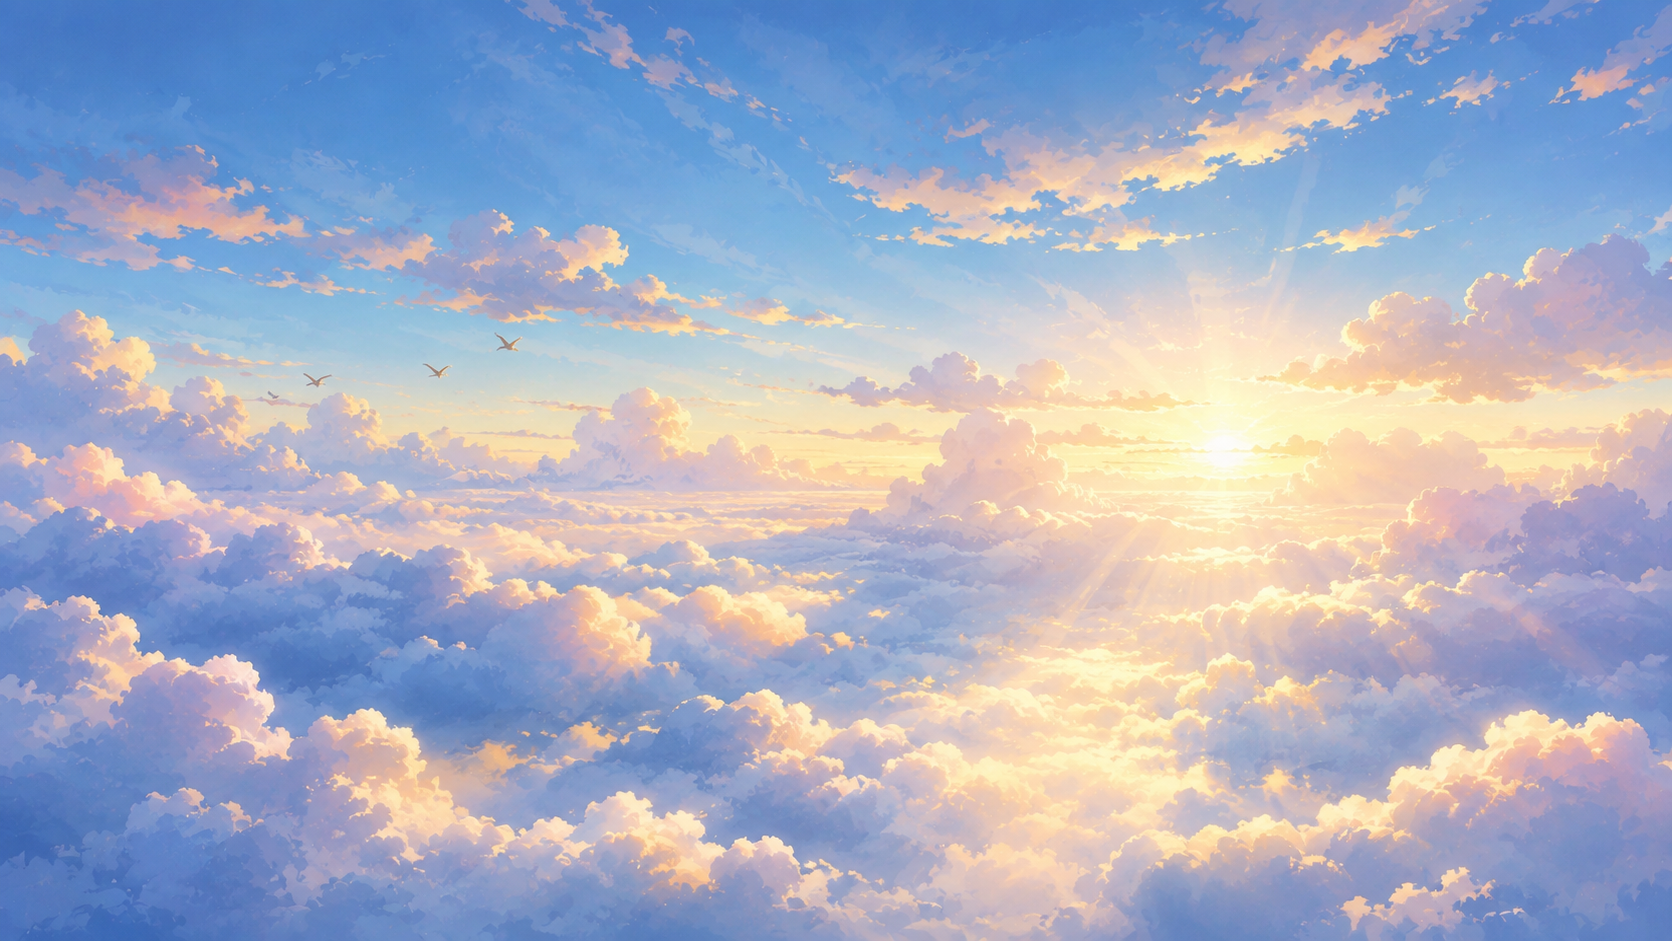
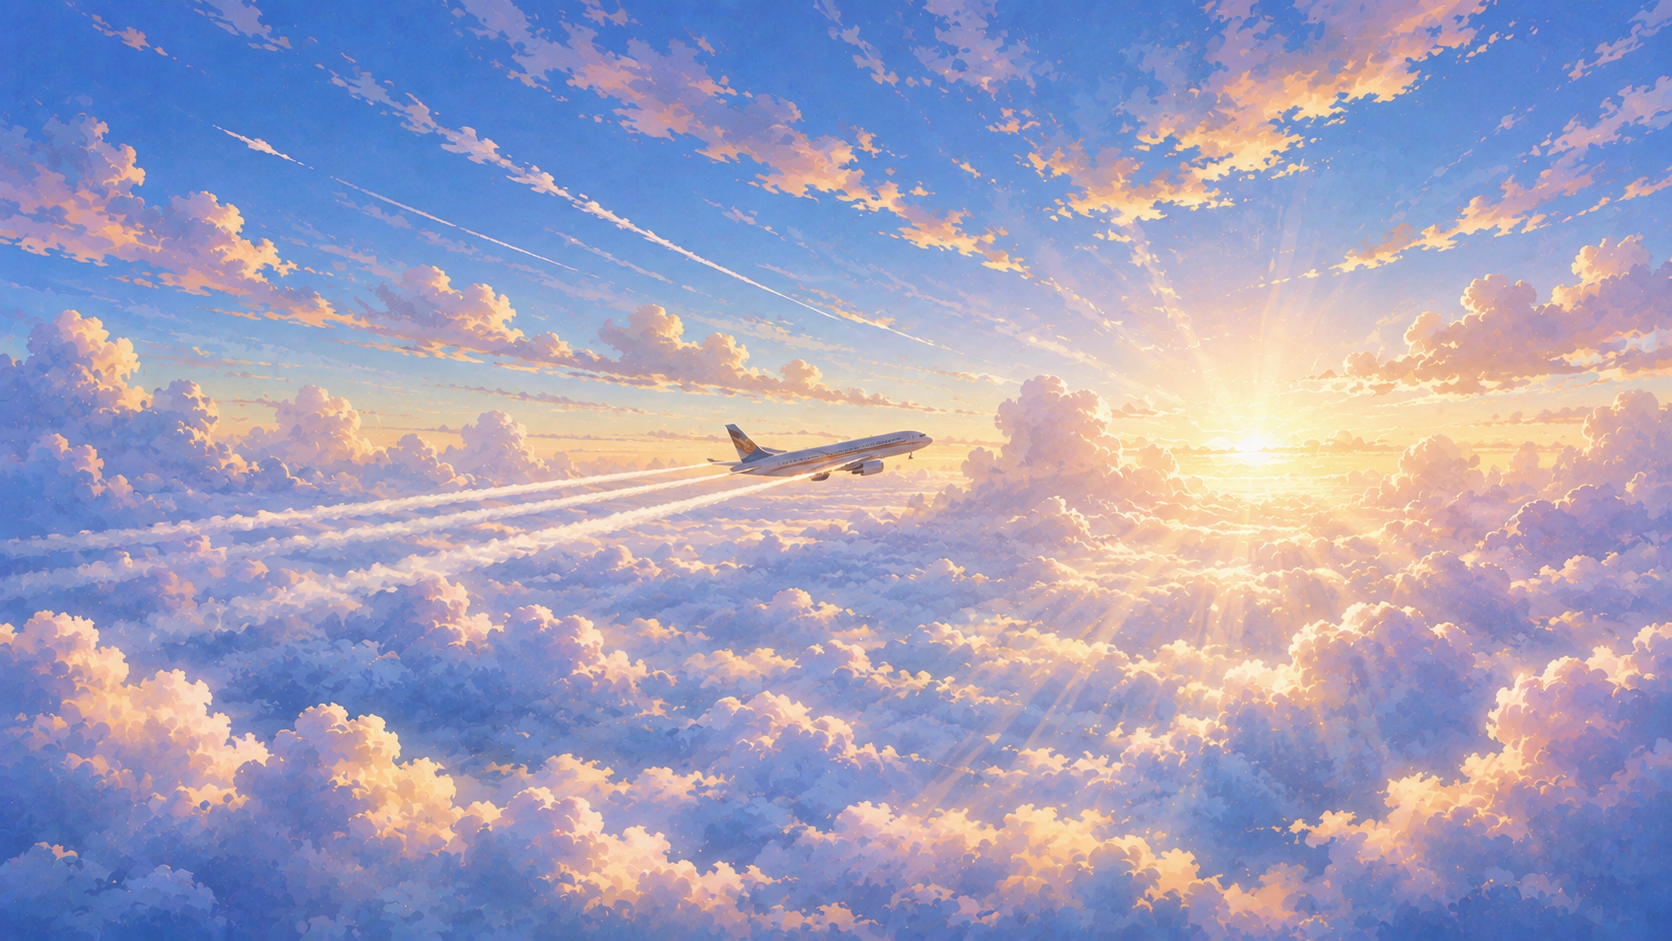
Add per-gift display scale and mirror the travel sky for the trip home
Home gifts can now set a scale independent of their w/h hitbox (koala
gets scale:2), composed into the existing rotate/hover transform via a
new --gift-scale var.

Regenerated background_travel_sky.png now has a plane painted into the
art itself; flip it horizontally on the return flight (.travel-homeward)
so it reads as heading the opposite direction without needing separate
outbound/homeward art.

diff --git a/styles.css b/styles.css
@@ -109,14 +109,14 @@ body {
 #home-souvenirs { position:absolute; inset:0; z-index:1; pointer-events:none; }
 .home-souvenir {
   position:absolute; width:var(--gift-w); height:var(--gift-h);
-  transform:translate(-50%,-50%) rotate(var(--gift-rot, 0deg)); border:0; padding:0; background:transparent;
+  transform:translate(-50%,-50%) scale(var(--gift-scale, 1)) rotate(var(--gift-rot, 0deg)); border:0; padding:0; background:transparent;
   cursor:pointer; pointer-events:auto; filter:drop-shadow(0 3px 2px rgba(50,30,15,.26));
   transition:transform .16s ease, filter .16s ease;
 }
 .home-souvenir img { display:block; width:100%; height:100%; max-width:100%; max-height:100%; object-fit:contain; }
 .home-souvenir-fallback { display:grid; width:100%; height:100%; place-items:center; font-size:min(var(--gift-w), var(--gift-h)); line-height:1; }
 .home-souvenir:hover, .home-souvenir:focus-visible {
-  transform:translate(-50%,-55%) scale(1.14) rotate(var(--gift-rot, 0deg));
+  transform:translate(-50%,-55%) scale(calc(var(--gift-scale, 1) * 1.14)) rotate(var(--gift-rot, 0deg));
   filter:drop-shadow(0 5px 4px rgba(50,30,15,.35)); outline:none;
 }
 .home-souvenir:focus-visible { box-shadow:0 0 0 3px rgba(255,255,255,.9); border-radius:12px; }
@@ -302,6 +302,7 @@ body {
 @keyframes pinbounce { 0%,100%{ margin-top:0 } 50%{ margin-top:-9px } }
 
 /* ---------- travel ---------- */
+.scene-art.travel-homeward .art-layer { transform:scaleX(-1); }
 .travel-banner {
   position:absolute; top:36px; left:50%; transform:translateX(-50%) rotate(-1.5deg);
   background:rgba(255,255,255,.94); color:var(--ink); font-size:30px; font-weight:bold;

diff --git a/js/core.js b/js/core.js
@@ -159,7 +159,7 @@ VA.State = {
       icon: source.icon,
       file: source.file,
       displayLocation: home.slot,
-      displayPosition: { x: home.x, y: home.y, w: home.w || home.size, h: home.h || home.size, rot: home.rot || 0 },
+      displayPosition: { x: home.x, y: home.y, w: home.w || home.size, h: home.h || home.size, scale: home.scale || 1, rot: home.rot || 0 },
       unlocked: true,
       relatedMemoryEvent: source.memory && source.memory.event,
       relatedGrammarAnswer: source.memory && source.memory.answer,
@@ -185,6 +185,7 @@ VA.State = {
       y: home ? home.y : saved.y,
       w: (home && (home.w || home.size)) || saved.w || saved.size,
       h: (home && (home.h || home.size)) || saved.h || saved.size,
+      scale: (home && home.scale) || saved.scale || 1,
       rot: (home && home.rot) || 0,
     };
   },
@@ -207,7 +208,7 @@ VA.State = {
           icon: source.icon,
           file: source.file,
           displayLocation: home.slot,
-          displayPosition: { x: home.x, y: home.y, w: home.w || home.size, h: home.h || home.size, rot: home.rot || 0 },
+          displayPosition: { x: home.x, y: home.y, w: home.w || home.size, h: home.h || home.size, scale: home.scale || 1, rot: home.rot || 0 },
           unlocked: true,
           relatedMemoryEvent: source.memory && source.memory.event,
           relatedGrammarAnswer: source.memory && source.memory.answer,

diff --git a/js/data.js b/js/data.js
@@ -286,7 +286,7 @@ VA.Data.DESTS = [
     ],
 
     souvenirs: [
-      { id: 'koala', label: 'Koala Toy', icon: '🐨', file: 'souvenir_koala.png', line: 'The koala, please.', jp: 'コアラをください。', reactJP: 'コアラ！', home: { slot: 'Floor by cabinet', x: 150, y: 510, w: 150, h: 62 }, memory: { event: 'australia-memory', answer: 'I saw a koala.', answerJP: 'コアラを見たよ。' }, grandmaLine: 'I like my little koala.' },
+      { id: 'koala', label: 'Koala Toy', icon: '🐨', file: 'souvenir_koala.png', line: 'The koala, please.', jp: 'コアラをください。', reactJP: 'コアラ！', home: { slot: 'Floor by cabinet', x: 150, y: 510, w: 150, h: 62, scale: 2 }, memory: { event: 'australia-memory', answer: 'I saw a koala.', answerJP: 'コアラを見たよ。' }, grandmaLine: 'I like my little koala.' },
       { id: 'shell', label: 'Seashell', icon: '🐚', file: 'souvenir_shell.png', line: 'The seashell, please.', jp: '貝がらをください。', reactJP: '貝がら！', home: { slot: 'Right bookshelf middle', x: 870, y: 180, w: 126, h: 76 }, memory: { event: 'australia-memory', answer: 'I found a seashell.', answerJP: '貝がらを見つけたよ。' }, grandmaLine: 'This seashell makes me happy.' },
     ],
   },

diff --git a/js/screens.js b/js/screens.js
@@ -57,6 +57,7 @@ VA.UI = {
       item.style.top = placement.y + 'px';
       item.style.setProperty('--gift-w', placement.w + 'px');
       item.style.setProperty('--gift-h', placement.h + 'px');
+      item.style.setProperty('--gift-scale', placement.scale);
       item.style.setProperty('--gift-rot', placement.rot + 'deg');
       item.title = `${gift.label} — tap to remember ${gift.destinationName}`;
       item.setAttribute('aria-label', `${gift.label} from ${gift.destinationName}. Review this memory.`);
@@ -161,6 +162,7 @@ VA.UI = {
     const scr = VA.$('#scr-travel');
     const art = scr.querySelector('.scene-art');
     art.innerHTML = '';
+    art.classList.toggle('travel-homeward', homeward);
     VA.Art.layer(art, { painter: 'travelSky', file: 'background_travel_sky.png' });
     VA.$('#travel-loading').hidden = true;
 
